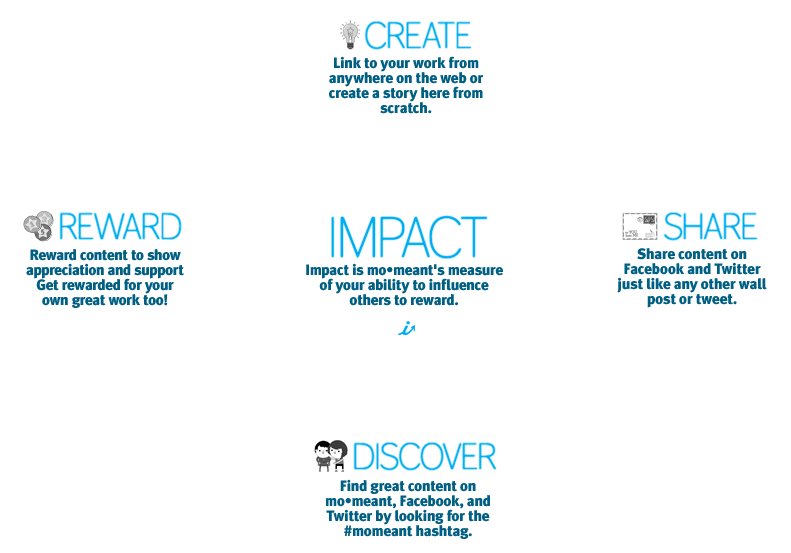
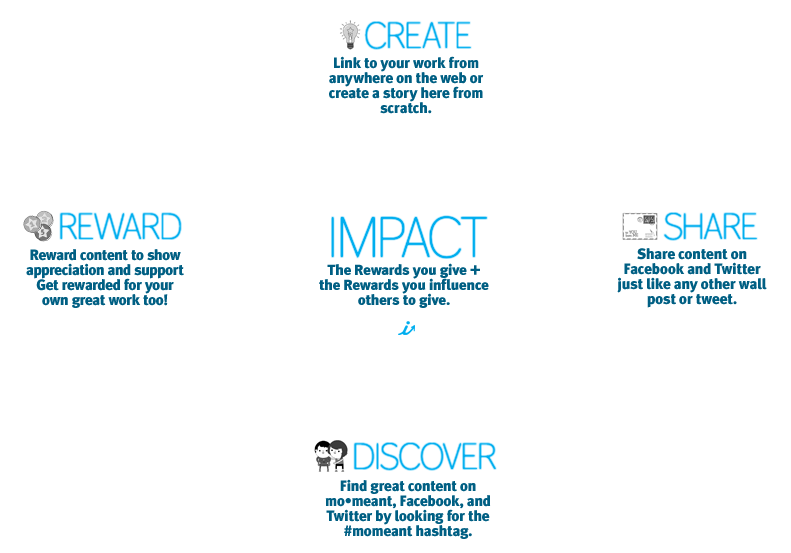
Tweaked a few things in the reward modal. Updated the Impact copy in the about page and about modal (that shows upon signup).

Changed region(s): [[0.3944, 0.4611, 0.6372, 0.5533]]

diff --git a/public/stylesheets/styles.css b/public/stylesheets/styles.css
@@ -3078,9 +3078,9 @@ form.new_story, form.edit_story, .story-form {
     margin-left: -400px;
     background-color: #f4f4f4;
     z-index: 3;
-    -webkit-box-shadow: 0 2px 2px rgba(0, 0, 0, 0.3);
-    -moz-box-shadow: 0 2px 2px rgba(0, 0, 0, 0.3);
-    box-shadow: 0 2px 2px rgba(0, 0, 0, 0.3); }
+    -webkit-box-shadow: 0 1px 2px rgba(0, 0, 0, 0.3);
+    -moz-box-shadow: 0 1px 2px rgba(0, 0, 0, 0.3);
+    box-shadow: 0 1px 2px rgba(0, 0, 0, 0.3); }
     #presenter #reward-modal #reward-modal-tab {
       position: absolute;
       bottom: -39px;
@@ -3097,9 +3097,9 @@ form.new_story, form.edit_story, .story-form {
       border-top: none;
       width: auto;
       z-index: 2;
-      -webkit-box-shadow: 0 2px 2px rgba(0, 0, 0, 0.3);
-      -moz-box-shadow: 0 2px 2px rgba(0, 0, 0, 0.3);
-      box-shadow: 0 2px 2px rgba(0, 0, 0, 0.3); }
+      -webkit-box-shadow: 0 1px 1px rgba(0, 0, 0, 0.3);
+      -moz-box-shadow: 0 1px 1px rgba(0, 0, 0, 0.3);
+      box-shadow: 0 1px 1px rgba(0, 0, 0, 0.3); }
       #presenter #reward-modal #reward-modal-tab .inner {
         width: auto;
         position: relative;
@@ -3213,74 +3213,77 @@ form.new_story, form.edit_story, .story-form {
           float: right; }
       #presenter #reward-modal #your-reward #reward-box-outer {
         padding: 20px; }
-        #presenter #reward-modal #your-reward #reward-box-outer #reward-box .alert {
-          background-color: #f7d3db;
-          color: #f42652;
-          padding: 5px 10px;
-          font-weight: 700;
-          text-transform: uppercase;
-          margin-bottom: 20px; }
-        #presenter #reward-modal #your-reward #reward-box-outer #reward-box .inner {
-          position: relative; }
-          #presenter #reward-modal #your-reward #reward-box-outer #reward-box .inner form#reward-form {
-            padding-left: 10px; }
-            #presenter #reward-modal #your-reward #reward-box-outer #reward-box .inner form#reward-form #stars {
-              width: 425px;
-              height: 100px; }
-              #presenter #reward-modal #your-reward #reward-box-outer #reward-box .inner form#reward-form #stars li {
-                width: 90px;
-                float: left;
-                clear: none; }
-                #presenter #reward-modal #your-reward #reward-box-outer #reward-box .inner form#reward-form #stars li a {
-                  display: block;
-                  width: 70px;
-                  height: 70px;
-                  background: transparent url(../images/rewardFormStars.png) no-repeat 0 0;
-                  text-indent: -9999px; }
-                #presenter #reward-modal #your-reward #reward-box-outer #reward-box .inner form#reward-form #stars li a#one-star.selected {
-                  background-position: 0 -100px; }
-                #presenter #reward-modal #your-reward #reward-box-outer #reward-box .inner form#reward-form #stars li a#three-star {
-                  background-position: -100px 0; }
-                #presenter #reward-modal #your-reward #reward-box-outer #reward-box .inner form#reward-form #stars li a#three-star.selected {
-                  background-position: -100px -100px; }
-                #presenter #reward-modal #your-reward #reward-box-outer #reward-box .inner form#reward-form #stars li a#five-star {
-                  background-position: -200px 0; }
-                #presenter #reward-modal #your-reward #reward-box-outer #reward-box .inner form#reward-form #stars li a#five-star.selected {
-                  background-position: -200px -100px; }
-                #presenter #reward-modal #your-reward #reward-box-outer #reward-box .inner form#reward-form #stars li input[type="text"] {
+        #presenter #reward-modal #your-reward #reward-box-outer #reward-box {
+          padding-top: 110px; }
+          #presenter #reward-modal #your-reward #reward-box-outer #reward-box .alert {
+            background-color: #f7d3db;
+            color: #f42652;
+            padding: 5px 10px;
+            font-weight: 700;
+            text-transform: uppercase;
+            margin-bottom: 20px; }
+          #presenter #reward-modal #your-reward #reward-box-outer #reward-box .inner {
+            position: relative; }
+            #presenter #reward-modal #your-reward #reward-box-outer #reward-box .inner form#reward-form {
+              padding-left: 10px; }
+              #presenter #reward-modal #your-reward #reward-box-outer #reward-box .inner form#reward-form #stars {
+                width: 425px;
+                height: 100px; }
+                #presenter #reward-modal #your-reward #reward-box-outer #reward-box .inner form#reward-form #stars li {
+                  width: 90px;
                   float: left;
-                  font-size: 36px;
-                  padding: 15px;
-                  margin-right: 10px;
-                  width: 50px;
-                  text-align: center; }
-                #presenter #reward-modal #your-reward #reward-box-outer #reward-box .inner form#reward-form #stars li span, #presenter #reward-modal #your-reward #reward-box-outer #reward-box .inner form#reward-form #stars li strong {
-                  font-size: 10px;
-                  text-transform: uppercase;
-                  letter-spacing: 0.03em;
-                  line-height: 18px; }
-                #presenter #reward-modal #your-reward #reward-box-outer #reward-box .inner form#reward-form #stars li span {
-                  font-style: italic; }
-              #presenter #reward-modal #your-reward #reward-box-outer #reward-box .inner form#reward-form #stars li.custom {
-                width: 150px; }
-            #presenter #reward-modal #your-reward #reward-box-outer #reward-box .inner form#reward-form #comment {
-              display: none;
-              clear: both; }
-              #presenter #reward-modal #your-reward #reward-box-outer #reward-box .inner form#reward-form #comment textarea {
-                height: 50px; }
-        #presenter #reward-modal #your-reward #reward-box-outer #share h3 {
-          float: left;
-          width: 150px;
-          text-align: left; }
+                  clear: none; }
+                  #presenter #reward-modal #your-reward #reward-box-outer #reward-box .inner form#reward-form #stars li a {
+                    display: block;
+                    width: 70px;
+                    height: 70px;
+                    background: transparent url(../images/rewardFormStars.png) no-repeat 0 0;
+                    text-indent: -9999px; }
+                  #presenter #reward-modal #your-reward #reward-box-outer #reward-box .inner form#reward-form #stars li a#one-star.selected {
+                    background-position: 0 -100px; }
+                  #presenter #reward-modal #your-reward #reward-box-outer #reward-box .inner form#reward-form #stars li a#three-star {
+                    background-position: -100px 0; }
+                  #presenter #reward-modal #your-reward #reward-box-outer #reward-box .inner form#reward-form #stars li a#three-star.selected {
+                    background-position: -100px -100px; }
+                  #presenter #reward-modal #your-reward #reward-box-outer #reward-box .inner form#reward-form #stars li a#five-star {
+                    background-position: -200px 0; }
+                  #presenter #reward-modal #your-reward #reward-box-outer #reward-box .inner form#reward-form #stars li a#five-star.selected {
+                    background-position: -200px -100px; }
+                  #presenter #reward-modal #your-reward #reward-box-outer #reward-box .inner form#reward-form #stars li input[type="text"] {
+                    float: left;
+                    font-size: 36px;
+                    padding: 15px;
+                    margin-right: 10px;
+                    width: 50px;
+                    text-align: center; }
+                  #presenter #reward-modal #your-reward #reward-box-outer #reward-box .inner form#reward-form #stars li span, #presenter #reward-modal #your-reward #reward-box-outer #reward-box .inner form#reward-form #stars li strong {
+                    font-size: 10px;
+                    text-transform: uppercase;
+                    letter-spacing: 0.03em;
+                    line-height: 18px; }
+                  #presenter #reward-modal #your-reward #reward-box-outer #reward-box .inner form#reward-form #stars li span {
+                    font-style: italic; }
+                #presenter #reward-modal #your-reward #reward-box-outer #reward-box .inner form#reward-form #stars li.custom {
+                  width: 150px; }
+              #presenter #reward-modal #your-reward #reward-box-outer #reward-box .inner form#reward-form #comment {
+                display: none;
+                clear: both; }
+                #presenter #reward-modal #your-reward #reward-box-outer #reward-box .inner form#reward-form #comment textarea {
+                  height: 50px; }
         #presenter #reward-modal #your-reward #reward-box-outer #share .info {
-          float: right;
-          width: 190px;
-          font-size: 11px;
-          text-align: right;
-          padding-bottom: 10px; }
-          #presenter #reward-modal #your-reward #reward-box-outer #share .info strong {
-            padding-left: 18px;
-            background: transparent url(../images/icons/impactTiny.png) no-repeat 0 0; }
+          height: 60px; }
+          #presenter #reward-modal #your-reward #reward-box-outer #share .info h3.impact {
+            font-size: 21px;
+            margin: 0; }
+            #presenter #reward-modal #your-reward #reward-box-outer #share .info h3.impact span {
+              padding: 3px 0; }
+            #presenter #reward-modal #your-reward #reward-box-outer #share .info h3.impact span.icon {
+              padding-left: 37px;
+              background: transparent url(../images/icons/impact.png) no-repeat 0 0; }
+          #presenter #reward-modal #your-reward #reward-box-outer #share .info a#what-is-impact {
+            float: right;
+            margin: -2px 20px 0 0;
+            font-size: 11px; }
         #presenter #reward-modal #your-reward #reward-box-outer #share #twitter-sharing {
           margin-bottom: 30px;
           position: relative;
@@ -3330,7 +3333,7 @@ form.new_story, form.edit_story, .story-form {
               font-size: 13px;
               text-align: left;
               margin-bottom: 5px;
-              width: auto;
+              width: 260px;
               height: 16px;
               overflow: hidden; }
             #presenter #reward-modal #your-reward #reward-box-outer #share #facebook-sharing #facebook-preview .link {
@@ -4053,6 +4056,11 @@ form.new_story, form.edit_story, .story-form {
     right: 0; }
     #presenter #next-page .button {
       background-position: -138px 0; }
+
+#what-is-impact-modal {
+  width: 732px;
+  height: 391px;
+  background: transparent url(../images/whatIsImpactModal.png) no-repeat 0 0; }
 
 .thumbnail.title {
   width: 288px;
@@ -5920,6 +5928,8 @@ form.user_edit {
 #about-diagram-modal .padder {
   width: 729px;
   height: 610px;
+  top: 50%;
+  margin-top: -305px;
   padding: 10px;
   position: relative;
   background: rgba(0, 0, 0, 0.4);

diff --git a/public/stylesheets/modals.css b/public/stylesheets/modals.css
@@ -90,27 +90,16 @@ Backtrace:
 /Users/djbrowning/projects/momeant/repo/vendor/ruby/1.8/gems/actionpack-3.0.9/lib/action_dispatch/middleware/static.rb:30:in `call'
 /Users/djbrowning/projects/momeant/repo/vendor/ruby/1.8/gems/airbrake-3.0.4/lib/airbrake/user_informer.rb:12:in `call'
 /Users/djbrowning/projects/momeant/repo/vendor/ruby/1.8/gems/railties-3.0.9/lib/rails/application.rb:168:in `call'
-/Users/djbrowning/projects/momeant/repo/vendor/ruby/1.8/gems/airbrake-3.0.4/lib/airbrake/rails3_tasks.rb:79
-/Users/djbrowning/projects/momeant/repo/vendor/ruby/1.8/gems/rake-0.9.2/lib/rake/task.rb:205:in `call'
-/Users/djbrowning/projects/momeant/repo/vendor/ruby/1.8/gems/rake-0.9.2/lib/rake/task.rb:205:in `execute'
-/Users/djbrowning/projects/momeant/repo/vendor/ruby/1.8/gems/rake-0.9.2/lib/rake/task.rb:200:in `each'
-/Users/djbrowning/projects/momeant/repo/vendor/ruby/1.8/gems/rake-0.9.2/lib/rake/task.rb:200:in `execute'
-/Users/djbrowning/projects/momeant/repo/vendor/ruby/1.8/gems/rake-0.9.2/lib/rake/task.rb:158:in `invoke_with_call_chain'
-/Users/djbrowning/.rbenv/versions/1.8.7-p352/lib/ruby/1.8/monitor.rb:242:in `synchronize'
-/Users/djbrowning/projects/momeant/repo/vendor/ruby/1.8/gems/rake-0.9.2/lib/rake/task.rb:151:in `invoke_with_call_chain'
-/Users/djbrowning/projects/momeant/repo/vendor/ruby/1.8/gems/rake-0.9.2/lib/rake/task.rb:144:in `invoke'
-/Users/djbrowning/projects/momeant/repo/vendor/ruby/1.8/gems/rake-0.9.2/lib/rake/application.rb:112:in `invoke_task'
-/Users/djbrowning/projects/momeant/repo/vendor/ruby/1.8/gems/rake-0.9.2/lib/rake/application.rb:90:in `top_level'
-/Users/djbrowning/projects/momeant/repo/vendor/ruby/1.8/gems/rake-0.9.2/lib/rake/application.rb:90:in `each'
-/Users/djbrowning/projects/momeant/repo/vendor/ruby/1.8/gems/rake-0.9.2/lib/rake/application.rb:90:in `top_level'
-/Users/djbrowning/projects/momeant/repo/vendor/ruby/1.8/gems/rake-0.9.2/lib/rake/application.rb:129:in `standard_exception_handling'
-/Users/djbrowning/projects/momeant/repo/vendor/ruby/1.8/gems/rake-0.9.2/lib/rake/application.rb:84:in `top_level'
-/Users/djbrowning/projects/momeant/repo/vendor/ruby/1.8/gems/rake-0.9.2/lib/rake/application.rb:62:in `run'
-/Users/djbrowning/projects/momeant/repo/vendor/ruby/1.8/gems/rake-0.9.2/lib/rake/application.rb:129:in `standard_exception_handling'
-/Users/djbrowning/projects/momeant/repo/vendor/ruby/1.8/gems/rake-0.9.2/lib/rake/application.rb:59:in `run'
-/Users/djbrowning/projects/momeant/repo/vendor/ruby/1.8/gems/rake-0.9.2/bin/rake:32
-/Users/djbrowning/projects/momeant/repo/vendor/ruby/1.8/bin/rake:19:in `load'
-/Users/djbrowning/projects/momeant/repo/vendor/ruby/1.8/bin/rake:19
+/Users/djbrowning/projects/momeant/repo/vendor/ruby/1.8/gems/railties-3.0.9/lib/rails/application.rb:77:in `send'
+/Users/djbrowning/projects/momeant/repo/vendor/ruby/1.8/gems/railties-3.0.9/lib/rails/application.rb:77:in `method_missing'
+/Users/djbrowning/Library/Application Support/Pow/Versions/0.3.2/node_modules/nack/lib/nack/server.rb:146:in `handle'
+/Users/djbrowning/Library/Application Support/Pow/Versions/0.3.2/node_modules/nack/lib/nack/server.rb:99:in `start'
+/Users/djbrowning/Library/Application Support/Pow/Versions/0.3.2/node_modules/nack/lib/nack/server.rb:86:in `each'
+/Users/djbrowning/Library/Application Support/Pow/Versions/0.3.2/node_modules/nack/lib/nack/server.rb:86:in `start'
+/Users/djbrowning/Library/Application Support/Pow/Versions/0.3.2/node_modules/nack/lib/nack/server.rb:66:in `loop'
+/Users/djbrowning/Library/Application Support/Pow/Versions/0.3.2/node_modules/nack/lib/nack/server.rb:66:in `start'
+/Users/djbrowning/Library/Application Support/Pow/Versions/0.3.2/node_modules/nack/lib/nack/server.rb:13:in `run'
+/Users/djbrowning/Library/Application Support/Pow/Versions/0.3.2/node_modules/nack/bin/nack_worker:4
 */
 body:before {
   white-space: pre;

diff --git a/public/stylesheets/sass/presenter.sass b/public/stylesheets/sass/presenter.sass
@@ -78,7 +78,7 @@
 		margin-left: -400px
 		background-color: #f4f4f4
 		z-index: 3
-		@include boxshadow(2px,0.3,0,2px)
+		@include boxshadow(2px,0.3,0,1px)
 		#reward-modal-tab
 			position: absolute
 			bottom: -39px
@@ -95,7 +95,7 @@
 			border-top: none
 			width: auto
 			z-index: 2
-			@include boxshadow(2px,0.3,0,2px)
+			@include boxshadow(1px,0.3,0,1px)
 			.inner
 				width: auto
 				position: relative
@@ -215,6 +215,7 @@
 				padding: 20px
 				
 				#reward-box
+					padding-top: 110px
 					.alert
 						background-color: $lightred
 						color: $red
@@ -276,19 +277,20 @@
 									height: 50px
 
 				#share
-					h3
-						float: left
-						width: 150px
-						text-align: left
 					.info
-						float: right
-						width: 190px
-						font-size: 11px
-						text-align: right
-						padding-bottom: 10px
-						strong
-							padding-left: 18px
-							background: transparent url(../images/icons/impactTiny.png) no-repeat 0 0
+						height: 60px
+						h3.impact
+							font-size: 21px
+							margin: 0
+							span
+								padding: 3px 0
+							span.icon
+								padding-left: 37px
+								background: transparent url(../images/icons/impact.png) no-repeat 0 0
+						a#what-is-impact
+							float: right
+							margin: -2px 20px 0 0
+							font-size: 11px
 					
 					#twitter-sharing
 						margin-bottom: 30px
@@ -339,7 +341,7 @@
 								font-size: 13px
 								text-align: left
 								margin-bottom: 5px
-								width: auto
+								width: 260px
 								height: 16px
 								overflow: hidden
 							.link
@@ -843,3 +845,8 @@
 		right: 0
 		.button
 			background-position: -138px 0
+			
+#what-is-impact-modal
+	width: 732px
+	height: 391px
+	background: transparent url(../images/whatIsImpactModal.png) no-repeat 0 0

diff --git a/public/javascripts/stories/presenter.js b/public/javascripts/stories/presenter.js
@@ -197,10 +197,7 @@ $(function() {
 			$('#reward_amount').val($star_button.attr('amount'));
 			$('#custom_amount').val('');
 			
-			var $comment = $('#comment');
-			if (!$comment.is(':visible')) {
-				$comment.fadeIn('fast');
-			}
+			this.show_reward_comment();
 			return false;
 		},
 		
@@ -214,13 +211,18 @@ $(function() {
 			$amount.change(function() {
 				$('#reward_amount').val($(this).val());
 			});
-			$('#custom_amount').observe_field(1, function(value, object) {
-				
-				var $comment = $('#comment');
-				if (!$comment.is(':visible')) {
-					$comment.fadeIn('fast');
-				}
-			});
+			$('#custom_amount').observe_field(1, this.show_reward_comment);
+		},
+		
+		show_reward_comment: function() {
+		  var $comment = $('#comment');
+			if (!$comment.is(':visible')) {
+			  window.setTimeout(function() {
+			    $('#reward-box').animate({'padding-top':'45px'}, 300, function() {
+  			    $comment.fadeIn('fast');
+  			  });
+			  }, 300);
+			}
 		},
 
 		submit_reward: function(e) {
@@ -256,6 +258,7 @@ $(function() {
 					$('#its-you-arrow').show();
 					$('#share').show();
 					$('#mini-nav').animate({top:'0'}, 500);
+					$('#what-is-impact').fancybox();
 				}
 			);
 		},

diff --git a/public/stylesheets/sass/modals.sass b/public/stylesheets/sass/modals.sass
@@ -174,6 +174,8 @@
 	.padder
 		width: 729px
 		height: 610px
+		top: 50%
+		margin-top: -305px
 		padding: 10px
 		position: relative
 		background: rgba(0,0,0,0.4)

diff --git a/app/controllers/home_controller.rb b/app/controllers/home_controller.rb
@@ -18,5 +18,9 @@ class HomeController < ApplicationController
     @nav = "about"
     @nosidebar = true
   end
+  
+  def faq
+    redirect_to about_path
+  end
 
 end
